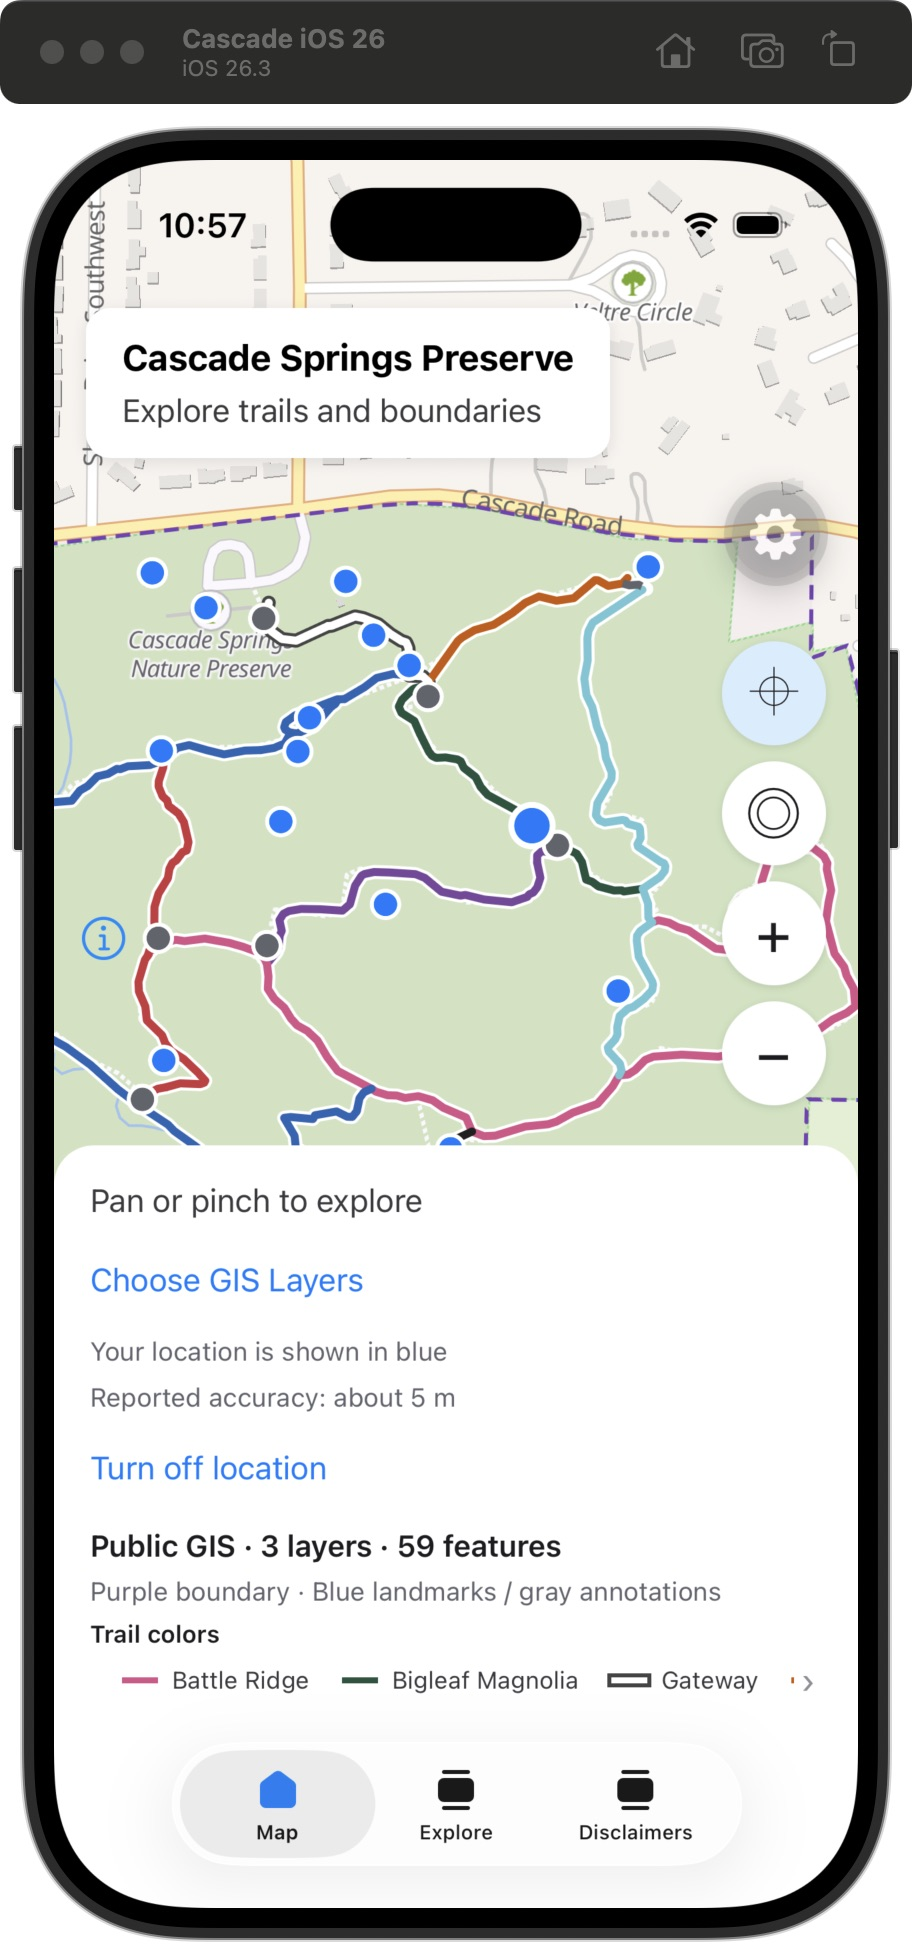
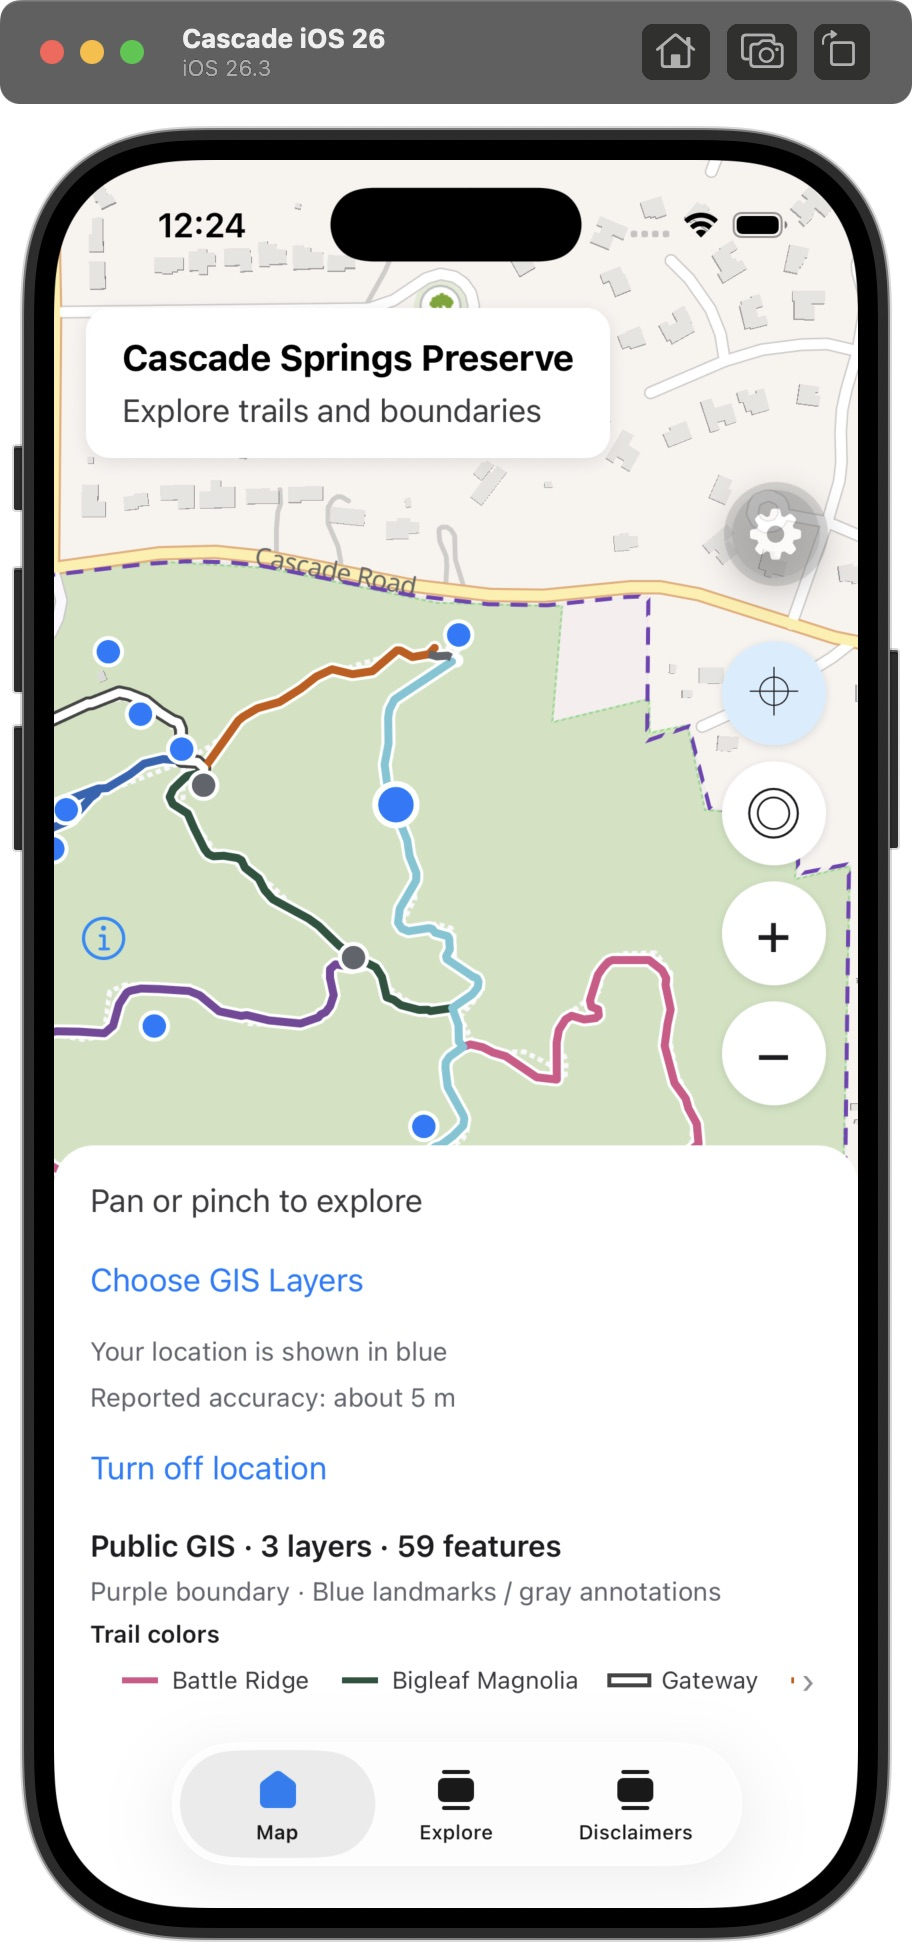
Keep GPS centered during zoom and tighten recenter scale

diff --git a/mobile/__tests__/location-follow.test.tsx b/mobile/__tests__/location-follow.test.tsx
@@ -55,7 +55,7 @@ afterEach(() => {
   mockFocusState.focused = true;
 });
 
-test.each([13, 15, 18.5])(
+test.each([13, 15.5, 18.5])(
   'recenter at zoom %s only zooms in and selects follow mode',
   async (zoom) => {
     mockGetZoom.mockResolvedValue(zoom);
@@ -65,7 +65,7 @@ test.each([13, 15, 18.5])(
     expect(mockEaseTo).toHaveBeenLastCalledWith(
       expect.objectContaining({
         center: [-84.48, 33.72],
-        zoom: Math.max(15, zoom),
+        zoom: Math.max(15.5, zoom),
         padding: expect.objectContaining({ top: 169, bottom: expect.any(Number) }),
       }),
     );
@@ -73,24 +73,94 @@ test.each([13, 15, 18.5])(
   },
 );
 
-test('fresh fixes follow without resetting zoom; programmatic camera and zoom buttons keep following', async () => {
+test('fresh fixes keep the requested zoom; programmatic camera and zoom buttons keep following', async () => {
   const view = await readyMap();
   await userEvent.setup().press(recenter());
   await region(false);
   await region(false, 'regionIsChanging');
   await userEvent.setup().press(screen.getByRole('button', { name: 'Zoom in' }));
-  expect(mockZoomTo).toHaveBeenCalledWith(17, { duration: 200 });
+  expect(mockZoomTo).not.toHaveBeenCalled();
+  expect(mockEaseTo).toHaveBeenLastCalledWith({
+    center: [-84.48, 33.72],
+    zoom: 17,
+    padding: expect.any(Object),
+    duration: 200,
+  });
   mockEaseTo.mockClear();
   for (const longitude of [-84.481, -84.482]) {
     setFix(fix(longitude));
     await view.rerender(<MapScreen />);
     expect(mockEaseTo).toHaveBeenLastCalledWith({
       center: [longitude, 33.72],
+      zoom: 17,
       padding: expect.any(Object),
       duration: 300,
     });
   }
   expect(recenter()).toBeSelected();
+});
+
+test.each([
+  ['Zoom in', 17],
+  ['Zoom out', 15],
+] as const)(
+  '%s keeps stationary GPS centered without waiting for a new fix',
+  async (label, zoom) => {
+    await readyMap();
+    await userEvent.setup().press(recenter());
+    mockEaseTo.mockClear();
+    await userEvent.setup().press(screen.getByRole('button', { name: label }));
+    expect(mockEaseTo).toHaveBeenCalledTimes(1);
+    expect(mockEaseTo).toHaveBeenLastCalledWith({
+      center: [-84.48, 33.72],
+      zoom,
+      padding: expect.any(Object),
+      duration: 200,
+    });
+    expect(mockZoomTo).not.toHaveBeenCalled();
+    expect(recenter()).toBeSelected();
+  },
+);
+
+test('successive zoom taps build on the requested scale during native animation and respect the limit', async () => {
+  const view = await readyMap();
+  await userEvent.setup().press(recenter());
+  const user = userEvent.setup();
+  // Native getZoom still reports 16 while the earlier animation is in progress.
+  for (const zoom of [17, 18, 19, 19]) {
+    await user.press(screen.getByRole('button', { name: 'Zoom in' }));
+    expect(mockEaseTo).toHaveBeenLastCalledWith(expect.objectContaining({ zoom }));
+  }
+  setFix(fix(-84.481));
+  await view.rerender(<MapScreen />);
+  expect(mockEaseTo).toHaveBeenLastCalledWith(expect.objectContaining({ zoom: 19 }));
+});
+
+test('zoom after dragging browses the viewport without pulling it back to GPS', async () => {
+  await readyMap();
+  await userEvent.setup().press(recenter());
+  await region(true);
+  mockEaseTo.mockClear();
+  await userEvent.setup().press(screen.getByRole('button', { name: 'Zoom in' }));
+  expect(mockEaseTo).not.toHaveBeenCalled();
+  expect(mockZoomTo).toHaveBeenCalledWith(17, { duration: 200 });
+});
+
+test('dragging cancels pending zoom rather than snapping back to GPS when its query resolves', async () => {
+  await readyMap();
+  await userEvent.setup().press(recenter());
+  let resolve!: (zoom: number) => void;
+  mockGetZoom.mockReturnValueOnce(
+    new Promise<number>((done) => {
+      resolve = done;
+    }),
+  );
+  await userEvent.setup().press(screen.getByRole('button', { name: 'Zoom in' }));
+  await region(true);
+  mockEaseTo.mockClear();
+  await act(async () => resolve(16));
+  expect(mockEaseTo).not.toHaveBeenCalled();
+  expect(mockZoomTo).not.toHaveBeenCalled();
 });
 
 test.each(['regionWillChange', 'regionIsChanging'])(

diff --git a/mobile/src/hooks/use-location-follow.ts b/mobile/src/hooks/use-location-follow.ts
@@ -15,6 +15,7 @@ export function useLocationFollow(
 ) {
   const [following, setFollowing] = useState(false);
   const active = useRef(false);
+  const followZoom = useRef<number | undefined>(undefined);
   const generation = useRef(0);
   const latest = useRef({ fix, ready, padding });
   // Reset the selection before rendering unavailable location/map controls.
@@ -22,6 +23,7 @@ export function useLocationFollow(
   const stop = useCallback(() => {
     generation.current += 1;
     active.current = false;
+    followZoom.current = undefined;
     setFollowing(false);
   }, []);
 
@@ -38,11 +40,12 @@ export function useLocationFollow(
     if (!fix || !ready) {
       generation.current += 1;
       active.current = false;
+      followZoom.current = undefined;
     } else if (active.current) {
-      // Omit zoom/bearing/pitch: fresh fixes move the center without resetting
-      // the visitor's chosen scale or interrupting zoom-button adjustments.
+      // Keep the requested scale if a fix arrives during a zoom animation.
       camera.current?.easeTo({
         center: [fix.coords.longitude, fix.coords.latitude],
+        zoom: followZoom.current,
         padding,
         duration: 300,
       });
@@ -58,9 +61,10 @@ export function useLocationFollow(
       // A drag, blur, lost fix, or newer tap can supersede the native query.
       if (request !== generation.current || !current.fix || !current.ready) return;
       if (zoom === undefined || !Number.isFinite(zoom)) return;
+      followZoom.current = Math.max(defaultZoom, zoom);
       camera.current?.easeTo({
         center: [current.fix.coords.longitude, current.fix.coords.latitude],
-        zoom: Math.max(defaultZoom, zoom),
+        zoom: followZoom.current,
         padding: current.padding,
         bearing: 0,
         pitch: 0,
@@ -75,5 +79,27 @@ export function useLocationFollow(
     }
   }
 
-  return { following, recenter, stop };
+  async function zoomBy(delta: number, minZoom: number, maxZoom: number) {
+    const request = generation.current;
+    const zoom = await map.current?.getZoom();
+    if (request !== generation.current || !latest.current.ready) return;
+    if (zoom === undefined || !Number.isFinite(zoom)) return;
+    const target = Math.min(maxZoom, Math.max(minZoom, (followZoom.current ?? zoom) + delta));
+    const { fix: currentFix, padding: currentPadding } = latest.current;
+    if (active.current && currentFix) {
+      followZoom.current = target;
+      // Zoom and center together, including while GPS is stationary. zoomTo
+      // alone uses the map's geometric center rather than the padded GPS anchor.
+      camera.current?.easeTo({
+        center: [currentFix.coords.longitude, currentFix.coords.latitude],
+        zoom: target,
+        padding: currentPadding,
+        duration: 200,
+      });
+    } else {
+      camera.current?.zoomTo(target, { duration: 200 });
+    }
+  }
+
+  return { following, recenter, stop, zoomBy };
 }

diff --git a/mobile/src/components/preserve-map.tsx b/mobile/src/components/preserve-map.tsx
@@ -29,6 +29,7 @@ import { useLocationFollow } from '@/hooks/use-location-follow';
 // Initial browsing viewport only; not a survey point, GPS fix, or preserve boundary.
 const PRESERVE_CENTER: [number, number] = [-84.4792, 33.7176];
 const INITIAL_ZOOM = 15;
+const LOCATION_ZOOM = 15.5;
 const MIN_ZOOM = 2;
 const MAX_ZOOM = 19;
 const MAP_STYLE = OFFLINE_STYLE ?? 'https://tiles.openfreemap.org/styles/liberty';
@@ -70,7 +71,7 @@ export default function PreserveMap() {
     location.fix,
     ready,
     locationPadding,
-    INITIAL_ZOOM,
+    LOCATION_ZOOM,
   );
   const snapshot = visibleSnapshot;
   const details =
@@ -137,12 +138,7 @@ export default function PreserveMap() {
   const locating = location.status === 'requesting' || location.status === 'searching';
   async function zoomBy(delta: number) {
     try {
-      const zoom = await map.current?.getZoom();
-      if (zoom !== undefined) {
-        camera.current?.zoomTo(Math.min(MAX_ZOOM, Math.max(MIN_ZOOM, zoom + delta)), {
-          duration: 200,
-        });
-      }
+      await locationFollow.zoomBy(delta, MIN_ZOOM, MAX_ZOOM);
     } catch {
       setLoadState('unavailable');
     }

diff --git a/mobile/README.md b/mobile/README.md
@@ -177,10 +177,11 @@ or app configuration was introduced by that integration slice.
 The Map tab now offers **Use my location**, requests foreground permission only
 after that action, and draws a blue position dot from `expo-location`. **Recenter
 on my location** centers on the latest fix and follows subsequent fresh fixes.
-It zooms in to level 15 when farther out, preserving any closer zoom. The selected
+It zooms in to level 15.5 when farther out, preserving any closer zoom. The selected
 button has a blue background. Dragging or pinching the map stops following;
-tap recenter again to resume. Zoom buttons preserve follow mode and subsequent
-fixes preserve the chosen zoom. **Return to preserve** stops following and
+tap recenter again to resume. Zoom buttons immediately zoom around the latest GPS fix, preserving its padded
+position on screen even while stationary. Subsequent fixes retain the requested zoom,
+including during an animation. **Return to preserve** stops following and
 returns to the initial viewport. Reported accuracy is displayed in meters, including coarse
 fixes when the OS grants approximate location.
 
@@ -227,8 +228,8 @@ Implementation follows the [SDK 57 location API](https://docs.expo.dev/versions/
    appears. Tap Use my location; verify the native explanation and deny it.
    Confirm browsing still works and the blue dot/recenter remain unavailable.
 2. Enable location in device Settings, return to Map and supply a simulated fix.
-   Confirm the blue dot and reported accuracy. At zoom below 15, tap recenter:
-   the camera zooms in to 15. Zoom closer and tap it again: the scale stays the
+   Confirm the blue dot and reported accuracy. At zoom below 15.5, tap recenter:
+   the camera zooms in to 15.5. Zoom closer and tap it again: the scale stays the
    same. Move the simulated position repeatedly: the camera follows, keeping
    the chosen zoom and the dot clear of the header/dock. The button is selected.
    Drag the map while moving: following stops immediately and the dot continues
@@ -285,11 +286,12 @@ this slice.
 
 ### Location-follow verification — November 16, 2026
 
-The follow change passes mobile lint, TypeScript, all 159 mobile tests (25 suites),
-including 15 new camera regressions, and JavaScript exports for iOS and Android.
+The follow change passes mobile lint, TypeScript, all 164 mobile tests (25 suites),
+including 20 new camera regressions, and JavaScript exports for iOS and Android.
 On iPhone 17 / iOS 26.3, the existing development client loaded this PR's Metro
-preview on port 8083. Recenter preserved a closer zoom; zoom buttons retained the
-selected follow state; moving a synthetic GPS fix moved the map while keeping
+preview on port 8083. Recenter preserved a closer zoom with a 15.5 default;
+both zoom buttons immediately kept a stationary GPS dot anchored, retaining the
+selected follow state. Moving a synthetic GPS fix moved the map while keeping
 the blue dot anchored in the visible viewport. The stale-fix state also cleared
 the selection. See the [active follow screenshot](../docs/images/ios26-location-follow.png).
 

diff --git a/docs/design/ui-spec.md b/docs/design/ui-spec.md
@@ -144,10 +144,12 @@ and [acceptance paths](user-flows.md#public-layer-selection-acceptance-j6-19).
 J6-14 now adds an explicit Use my location action, foreground permission, a moving
 blue dot, reported accuracy, recenter-to-user, and a separate return-to-preserve
 control in the existing map layout. The November 16, 2026 owner clarification
-changes recenter into an explicit follow action: zoom in to level 15 if farther
+changes recenter into an explicit follow action: zoom in to level 15.5 if farther
 out, preserve closer zoom, then follow fresh fixes without resetting zoom.
 The selected location button has a blue background and accessible selected state.
 Dragging or pinching returns to manual browsing; zoom buttons retain following.
+While following, both zoom buttons center on the latest fix in the same camera
+animation; a stationary fix needs no new GPS update to restore its on-screen anchor.
 Return to preserve, stale/missing location, map failure, blur/background or location
 disable ends following, requiring another recenter tap after recovery.
 Denial preserves browsing; permanent denial offers Settings. Device

diff --git a/docs/design/user-flows.md b/docs/design/user-flows.md
@@ -66,10 +66,11 @@ See [layer selection evidence](../development/layer-selection.md) for automated
 checks, iOS smoke results and remaining design/device verification.
 
 The current map GPS slice starts from **Use my location** and native foreground
-permission. Recenter uses the latest fix, zooms in to at least 15 while preserving
+permission. Recenter uses the latest fix, zooms in to at least 15.5 while preserving
 a closer zoom, and follows fresh fixes at the chosen scale. Dragging or pinching
 the viewport ends following; another recenter tap resumes it. Zoom buttons keep
-following. Return to preserve, loss of a fresh fix, map failure, blur/background,
+following and preserve the GPS anchor immediately, even without a new fix.
+Return to preserve, loss of a fresh fix, map failure, blur/background,
 or disabling location also ends following. Recovery does not resume it automatically.
 Denial does not block the map. On blur/background or
 explicit disable, subscriptions and the displayed fix are cleared. On return,

diff --git a/docs/decisions.md b/docs/decisions.md
@@ -20,7 +20,7 @@ The sources settle the main stack and feature direction, but do not settle the c
 ## Resolved direction and documentation cautions
 
 - **November 16, 2026 — J6-14 location follow:** The owner requested that the
-  location button only zoom inward (default level 15; preserve closer zoom) and
+  location button only zoom inward (default level 15.5; preserve closer zoom) and
   follow the user's location until the viewport is dragged. Recenter explicitly
   enables follow; manual map gestures end it. Zoom buttons retain follow and
   later fixes preserve zoom. Return to preserve and unavailable location/map or
